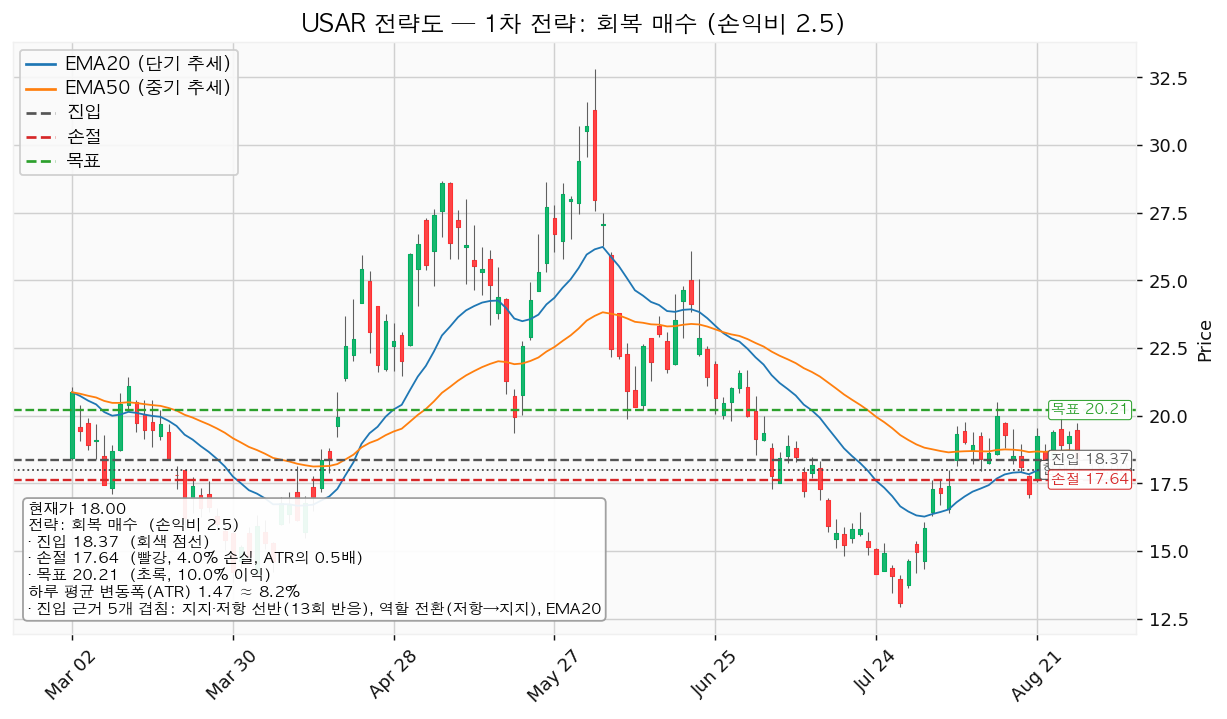
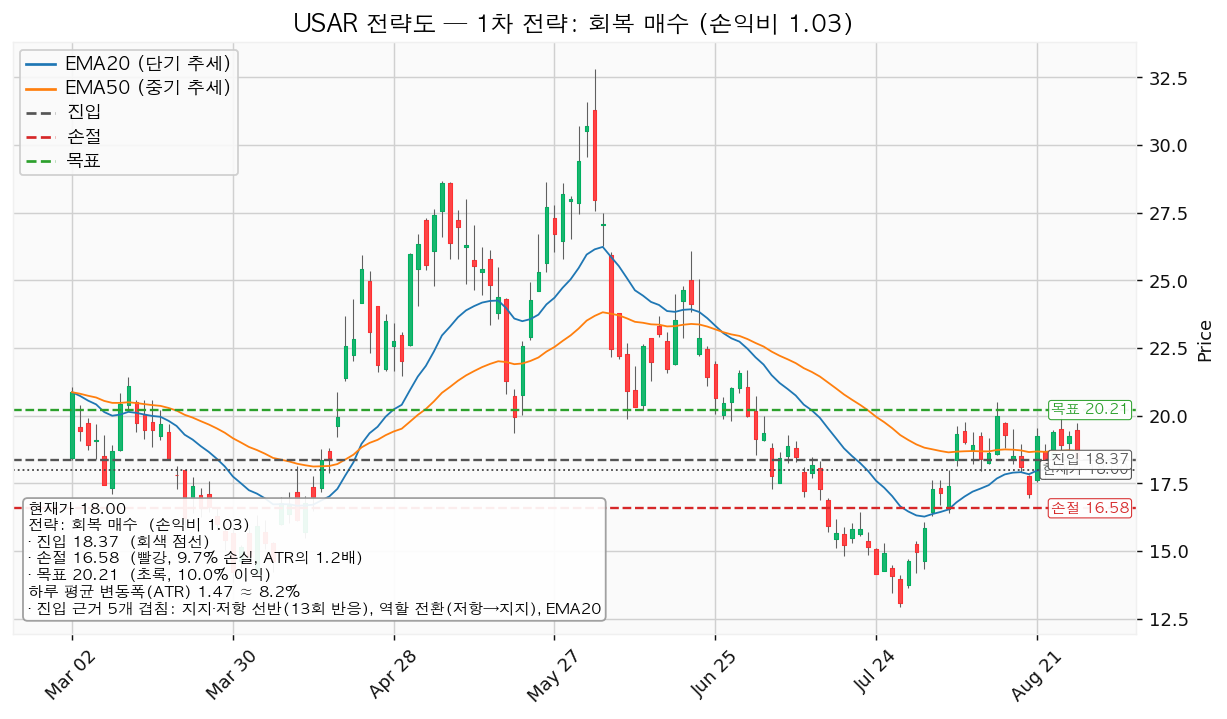
report: usa-rare-earth-inc-usar-20260831 — USA Rare Earth, Inc. (USAR) 종목 리포트 · 2026-08-31

diff --git a/r/usa-rare-earth-inc-usar-20260831/index.html b/r/usa-rare-earth-inc-usar-20260831/index.html
@@ -86,14 +86,14 @@ footer{color:var(--muted);font-size:12px;margin-top:44px;padding-top:14px;
 border-top:1px solid var(--line)}
 </style>
 </head><body><div class="wrap"><header class="site"><a class="back" href="../../index.html">← 전체 리포트</a></header>
-<p class="meta"><span class="badge">종목</span><strong>USA Rare Earth, Inc. (USAR)</strong> · 2026-08-31 14:34</p>
+<p class="meta"><span class="badge">종목</span><strong>USA Rare Earth, Inc. (USAR)</strong> · 2026-08-31 15:53</p>
 <h1 class="title">USA Rare Earth, Inc. (USAR) 종목 리포트 · 2026-08-31</h1>
-<div class="lede"><span class="lbl">한 줄 결론</span>USAR는 현재가 18.00달러에서 <mark>신규 매수를 보류</mark>하며, <strong>18.37달러를 일봉 종가로 회복한 뒤 되돌림에서 지켜지는 것까지 확인</strong>된 다음에만 소액으로 롱 전환을 검토합니다 — 진입한 경우 집행 손절은 17.64달러이나 이는 하루 평균 변동폭의 0.50배에 불과해 판단이 맞아도 체결될 수 있으므로, 진입하지 않은 상태에서 실제로 볼 선은 <strong>17.14달러 이탈</strong>과 <strong>2026-11-06 실적</strong>입니다.</div>
+<div class="lede"><span class="lbl">한 줄 결론</span>USAR는 <mark>패스</mark>입니다 — 유일하게 산출된 셋업의 손익비가 <strong>1:1.03</strong>으로, 손절을 구조 아래(16.58달러)에 제대로 두면 걸 만한 자리가 아닙니다. 18.37달러를 일봉 종가로 회복하고 되돌림까지 지켜지면 그때 다시 보되, 그 경우에도 손절 16.58달러 · 목표 20.21달러 · 손익비 1.03이라는 조건은 그대로이므로 <strong>손익비가 개선되지 않는 한 들어가지 않습니다.</strong> 진입하지 않은 상태에서 볼 선은 <strong>17.14달러 이탈</strong>과 <strong>2026-11-06 실적</strong>입니다.</div>
 <p class="note">USA Rare Earth(USAR)는 미국 내에서 희토류 자석과 그 원료를 만드는 회사로, 텍사스 라운드톱 광산 개발과 오클라호마 자석 공장을 함께 추진하고 있습니다.</p>
-<aside class="callout danger"><span class="ct">진입한 경우의 손절과, 진입하지 않은 경우의 관망 종료는 다릅니다</span><p><strong>집행 손절 17.64달러</strong>는 18.37달러에 진입했을 때만 존재합니다. 진입하지 않았다면 이 숫자는 아무 의미가 없습니다.</p><p>진입 전이라면 볼 것은 두 가지입니다 — <strong>17.14달러(겹침 5.5점, 이 종목 아래쪽 최상위 근거)를 종가로 잃으면</strong> 회복 시나리오를 접고, 그 전이라도 <strong>11월 6일 실적</strong>에서 논지가 깨지면 가격과 무관하게 관심 종목에서 뺍니다.</p></aside>
+<aside class="callout danger"><span class="ct">손절 16.58달러 — 그리고 이 셋업을 넘기는 이유</span><p>손절은 아래쪽에서 근거가 가장 두꺼운 구간(16.95~17.62달러, 겹침 5.5점) <strong>바로 아래</strong>인 16.58달러입니다. 손절 폭은 <strong><span class="neg">-9.75%</span></strong>, 하루 평균 변동폭의 1.22배로, 평범한 하루 등락에는 체결되지 않는 자리입니다.</p><p>그렇게 두면 손익비가 <strong>1:1.03</strong>입니다. 이익 폭과 손실 폭이 사실상 같다는 뜻이므로 <strong>이번에는 넘깁니다.</strong></p><p>진입하지 않은 상태에서 볼 선은 두 가지입니다 — <strong>17.14달러를 종가로 잃으면</strong> 회복 시나리오를 접고, 그 전이라도 <strong>11월 6일 실적</strong>에서 논지가 깨지면 가격과 무관하게 관심 종목에서 뺍니다.</p></aside>
 <hr>
 <h3>핵심 가격 — 5줄</h3>
-<div class="table-wrap"><table><thead><tr><th>구분</th><th>가격</th><th>언제 쓰는가</th><th>현재가 대비</th></tr></thead><tbody><tr><td><strong>회복선</strong> (진입 조건)</td><td><strong>18.37달러</strong></td><td>일봉 종가 회복 + 되돌림 지지까지 확인되면 진입</td><td><strong><span class="pos">+2.06%</span></strong></td></tr><tr><td><strong>집행 손절</strong></td><td><strong>17.64달러</strong></td><td><mark>진입한 경우에만 유효</mark> — 미진입 시 무의미</td><td><strong><span class="neg">-2.00%</span></strong></td></tr><tr><td><strong>관망 종료 기준</strong></td><td><strong>17.14달러 이탈</strong> 또는 <strong>2026-11-06 실적</strong></td><td>진입 전이라면 실제로 볼 선</td><td><strong><span class="neg">-4.78%</span></strong></td></tr><tr><td><strong>확인선</strong> (상승 확정)</td><td><strong>20.21달러</strong></td><td>일봉 종가 돌파 후 되돌림 지지</td><td><strong><span class="pos">+12.28%</span></strong></td></tr><tr><td>폐기선 (구조)</td><td>12.63달러</td><td>박스 해석 자체를 접는 자리 — <strong>하루 변동폭의 3.65배 거리라 실무상 무효화 기준으로 작동하지 않습니다</strong></td><td><strong><span class="neg">-29.83%</span></strong></td></tr></tbody></table></div>
+<div class="table-wrap"><table><thead><tr><th>구분</th><th>가격</th><th>언제 쓰는가</th><th>현재가 대비</th></tr></thead><tbody><tr><td><strong>회복선</strong> (진입 조건)</td><td><strong>18.37달러</strong></td><td>일봉 종가 회복 + 되돌림 지지까지 확인되면 진입</td><td><strong><span class="pos">+2.06%</span></strong></td></tr><tr><td><strong>집행 손절</strong></td><td><strong>16.58달러</strong></td><td><mark>진입한 경우에만 유효</mark> — 미진입 시 무의미</td><td><strong><span class="neg">-7.89%</span></strong></td></tr><tr><td><strong>관망 종료 기준</strong></td><td><strong>17.14달러 이탈</strong> 또는 <strong>2026-11-06 실적</strong></td><td>진입 전이라면 실제로 볼 선</td><td><strong><span class="neg">-4.78%</span></strong></td></tr><tr><td><strong>확인선</strong> (상승 확정)</td><td><strong>20.21달러</strong></td><td>일봉 종가 돌파 후 되돌림 지지</td><td><strong><span class="pos">+12.28%</span></strong></td></tr><tr><td>폐기선 (구조)</td><td>12.63달러</td><td>박스 해석 자체를 접는 자리 — <strong>하루 변동폭의 3.65배 거리라 실무상 무효화 기준으로 작동하지 않습니다</strong></td><td><strong><span class="neg">-29.83%</span></strong></td></tr></tbody></table></div>
 <p>폐기선이 표의 맨 아래로 내려간 이유는 거리 때문입니다. 12.63달러는 박스의 아래쪽 경계이고, 거기까지 <span class="neg">-29.8%</span> 빠지는 동안 계속 진입 기회를 기다리라는 것은 지침이 되지 못합니다. 진입하지 않은 사람이 볼 선은 세 번째 줄입니다.</p>
 <aside class="callout info"><span class="ct">이 리포트의 데이터에 한 가지 단서가 있습니다</span><p>2026-08-28(금) 일봉의 종가가 데이터 제공처에서 비어 있어, 같은 날 시간별 거래 자료의 마지막 체결가 18.00달러로 채워 분석에 반영했습니다. 확정 종가와 다를 수 있으며, 종가가 정정되면 위 가격들도 함께 달라집니다.</p></aside>
 <hr>
@@ -106,7 +106,7 @@ border-top:1px solid var(--line)}
 <h4>직전 리포트의 데이터 결함 — 정정합니다</h4>
 <p>직전 리포트는 현재가를 17.83달러로 적었습니다. 발행 시각이 한국시간 8월 24일 23시 37분, 미국 현지로는 <strong>장중 10시 37분</strong>이었고 8/24 봉의 실제 종가는 <strong>18.29달러</strong>(그날 범위 17.68~18.94)였습니다. 즉 아직 마감되지 않은 가격을 확정 종가처럼 사용했고, 당시의 EMA20 17.96달러·EMA50 18.64달러와 회복선 18.82달러가 모두 그 값 위에서 계산됐습니다. 지금은 확정 종가만 쓰도록 고쳐져 있습니다.</p>
 <h4>좌표의 이동</h4>
-<div class="table-wrap"><table><thead><tr><th>항목</th><th>08-24</th><th>08-31</th><th>왜 움직였나</th></tr></thead><tbody><tr><td>회복선·진입</td><td>18.82</td><td><strong>18.37</strong></td><td>8/25~8/28에 18.26~18.70 구간 반응이 쌓여 13회 반응 선반이 형성되고 EMA20·EMA50이 그 안으로 들어옴. 겹침 근거 2.1점 → <strong>3.7점</strong></td></tr><tr><td>집행 손절</td><td>18.10</td><td>17.64</td><td>진입선이 내려온 만큼 함께 이동</td></tr><tr><td>목표</td><td>20.38</td><td>20.21</td><td>같은 겹침 구간의 중심값 재계산</td></tr><tr><td>확인선</td><td>31.19</td><td><strong>20.21</strong></td><td><strong>선정 기준을 바꿨습니다</strong>(아래 설명)</td></tr><tr><td>폐기선</td><td>12.63</td><td>12.63</td><td>동일</td></tr><tr><td>현재가 추격</td><td>표시 없음</td><td><strong>비권장</strong></td><td>회복선 아래로 다시 내려옴</td></tr></tbody></table></div>
+<div class="table-wrap"><table><thead><tr><th>항목</th><th>08-24</th><th>08-31</th><th>왜 움직였나</th></tr></thead><tbody><tr><td>회복선·진입</td><td>18.82</td><td><strong>18.37</strong></td><td>8/25~8/28에 18.26~18.70 구간 반응이 쌓여 13회 반응 선반이 형성되고 EMA20·EMA50이 그 안으로 들어옴. 겹침 근거 2.1점 → <strong>3.7점</strong></td></tr><tr><td>집행 손절</td><td>18.10</td><td><strong>16.58</strong></td><td>손절 정책을 바꿨습니다 — 진입선 바로 밑(0.5 ATR)이 아니라 아래쪽 근거 구간(16.95~17.62) 바로 아래에 둡니다</td></tr><tr><td>목표</td><td>20.38</td><td>20.21</td><td>같은 겹침 구간의 중심값 재계산</td></tr><tr><td>손익비</td><td>2.16</td><td><strong>1.03</strong></td><td>손절을 구조 아래로 넓힌 결과입니다. 직전의 2.16은 손절이 좁아서 나온 값이었고, 그 손절이 8/28에 체결됐습니다</td></tr><tr><td>확인선</td><td>31.19</td><td><strong>20.21</strong></td><td><strong>선정 기준을 바꿨습니다</strong>(아래 설명)</td></tr><tr><td>폐기선</td><td>12.63</td><td>12.63</td><td>동일</td></tr><tr><td>현재가 추격</td><td>표시 없음</td><td><strong>비권장</strong></td><td>회복선 아래로 다시 내려옴</td></tr></tbody></table></div>
 <h4>확인선을 바꾼 이유</h4>
 <p>직전의 확인선 31.19달러는 박스의 위쪽 경계였습니다. 그런데 그 가격의 근거를 세어 보면 <strong>겹침 1.2점, 구성원은 &quot;박스 상단&quot; 하나</strong>입니다. 가격이 그 자리에서 반응한 이력도, 되돌림선도, 이동평균도 없는 자기참조입니다. 반면 20.21달러는 <strong>겹침 6.0점</strong>으로 이 종목 위쪽에서 가장 두꺼운 근거를 가진 가격입니다. &quot;상승이 확정됐다&quot;고 말할 자리는 알고리즘이 그린 상자를 벗어난 지점이 아니라 시장이 실제로 여러 번 막아섰던 지점이어야 하므로, 근거가 두꺼운 쪽으로 바꿨습니다. 박스 상단 31.19달러는 그 위의 맥락으로만 둡니다.</p>
 <h4>판단은 바뀌지 않았습니다</h4>
@@ -122,30 +122,25 @@ border-top:1px solid var(--line)}
 <div class="table-wrap"><table><thead><tr><th>시나리오</th><th>조건</th><th>구조 해석</th><th>행동</th></tr></thead><tbody><tr><td><strong>상승 전환</strong></td><td>18.37 종가 회복·지지 → 20.21 종가 돌파</td><td>속임수 하락 확인 → 강세 신호 → 되돌림 지지 → 상승 국면</td><td>18.37 확인 후 소액 진입, 20.21 돌파 시 <strong>새 셋업으로 다시 진입</strong>(아래 4절)</td></tr><tr><td><strong>횡보 지속</strong></td><td>12.63을 지키며 20.21 아래 유지</td><td>구조는 유지되는 국면입니다. 매물 소화에 시간이 필요할 뿐 부정적 신호가 아닙니다</td><td>신규 진입 보류. 추적 항목 — ① 지지 테스트 매도 거래량 감소(현재: 증가) ② 저점 절상(현재: 절하) ③ 상승 시 거래량·캔들 폭 확대(현재: 거래량비 0.99)</td></tr><tr><td><strong>시나리오 폐기</strong></td><td>12.63 이탈 후 3거래일 내 회복 실패 + 반등에서 저항 확인</td><td>매집이 아니라 재분산 — 추가 저점 갱신 가능성을 엽니다</td><td>포지션 정리 후 새 박스가 만들어질 때까지 관망</td></tr></tbody></table></div>
 <p>세 갈래 중 지금 가장 두꺼운 것은 <strong>횡보 지속</strong>입니다. 다만 직전 리포트와 달리 박스 내부 세 관측이 모두 분산 쪽을 가리키고 있어, 횡보가 아래로 풀릴 가능성이 위로 풀릴 가능성보다 높다고 봅니다.</p>
 <hr>
-<h3>조건부 셋업 — 그리고 이 셋업의 정합성 문제</h3>
+<h3>조건부 셋업 — 그리고 왜 넘기는가</h3>
 <p>엔진이 산출한 셋업은 1개입니다. 하락·중립 국면이라 눌림 매수나 돌파 매수는 나오지 않았습니다.</p>
-<div class="table-wrap"><table><thead><tr><th>항목</th><th>회복 매수 — 대표 셋업</th></tr></thead><tbody><tr><td><strong>엣지의 종류</strong></td><td><strong>모멘텀</strong> (회복 확인형)</td></tr><tr><td><strong>전제</strong></td><td>저항을 종가로 되찾으면 그 방향이 이어진다</td></tr><tr><td><strong>구조 증명도</strong></td><td><strong>회복 확인형</strong> (가중치 1.0) — 저항을 종가로 회복한 뒤에만 들어가므로 진입가는 불리하지만 구조가 먼저 증명됩니다</td></tr><tr><td><strong>이 유형의 성격</strong></td><td>자주 틀리고 소수가 크게 맞는 구조. 승률을 기대하는 셋업이 아닙니다 *(이 유형의 일반적 성격이며, 이 엔진에서 측정한 값이 아닙니다 — 백테스트 자료가 없습니다)*</td></tr><tr><td>진입</td><td><strong>18.37달러</strong> (<strong><span class="pos">+2.06%</span></strong>, 하루 변동폭의 0.25배 거리)</td></tr><tr><td>진입 근거 겹침</td><td>3.7점 / 5개 — 지지·저항 선반(13회 반응), 역할 전환(저항→지지), EMA20, EMA50, 최근 반응(12봉 전). 구간 18.26~18.70</td></tr><tr><td>집행 손절</td><td><strong>17.64달러</strong> — 진입선에서 하루 변동폭의 <strong>0.50배</strong> 아래</td></tr><tr><td>목표</td><td><strong>20.21달러</strong> (겹침 6.0점 / 7개 — 스윙저점, 라운드피겨, 선반 13회 반응, 주봉 62% 되돌림, 스윙고점, 일봉 38% 되돌림, 최근 반응)</td></tr><tr><td><strong>손익비</strong></td><td><strong>1 : 2.50 (손절 0.50 ATR 기준)</strong></td></tr><tr><td><strong>구조적 손절 기준 손익비</strong></td><td><strong>1 : 0.83</strong> (손절을 1.5 ATR = 16.16달러로 넓혔을 때)</td></tr><tr><td>분할 청산</td><td>T1 19.18에서 50%(손익비 1.10) → 잔여 손절 18.37(본전) → T2 20.21(2.50). 전 구간 1.80, <strong>T1 후 하한 0.55</strong></td></tr></tbody></table></div>
-<aside class="callout key"><span class="ct">손익비 2.50은 구조에서 나온 숫자가 아닙니다</span><p>같은 진입·같은 목표에 손절만 <strong>1.5 ATR</strong>(변동성 기반 시스템이 통상 쓰는 폭)로 넓히면 손익비는 <strong>1:0.83</strong>으로 떨어집니다. 즉 이 셋업의 매력은 목표가 멀어서가 아니라 <strong>손절을 하루 변동폭 안에 넣어서</strong> 생긴 것입니다. 손절 폭을 함께 보지 않고 2.50만 인용하면, 손절이 구조 바깥에 놓인 다른 셋업과 같은 잣대로 비교하게 됩니다.</p></aside>
-<p><strong>대표 셋업 선정 이유</strong>: 이번에는 산출된 셋업이 하나뿐이라 손익비 순위와 대표 셋업이 자동으로 일치합니다. 선정 근거는 손익비 2.50 × 구조 증명도(회복 확인형) × 근거 겹침 3.7점입니다. 다만 아래에서 보듯 그 손익비 2.50이라는 숫자 자체에 단서가 붙습니다.</p>
-<h4>정합성 경고 — 두 학파의 단점이 합쳐져 있습니다</h4>
-<p>이 셋업은 <strong>모멘텀 전제</strong>(저항을 되찾으면 이어진다)로 진입하면서, <strong>고정 목표 20.21달러로 위를 막고</strong> 있습니다. 두 학파의 규칙은 정반대입니다.</p>
-<ul><li><strong>평균회귀</strong>: 승률이 높고 이익 폭이 작습니다. 저항에서 전량 청산이 맞고, 손절은 구조 아래로 넓게 둡니다.</li><li><strong>모멘텀</strong>: 자주 틀리고 소수가 크게 맞습니다. 손절이 좁아도 되지만(빨리 틀리려고), <strong>고정 목표로 위를 막으면 안 됩니다.</strong></li></ul>
-<p>지금 조합은 손절은 모멘텀식으로 좁고 목표는 평균회귀식으로 막혀 있어, <strong>승률은 낮은데 상방은 잘린</strong> 상태입니다. 정합적인 형태는 둘 중 하나입니다.</p>
-<ul><li><strong>ⓐ 레인지 판</strong>: 손절을 구조 아래(16.16달러대)로 넓히고 목표는 20.21 유지. 손익비는 <strong>1:0.83</strong>으로 떨어지며, 그 숫자를 보고도 하겠느냐가 판단입니다.</li><li><strong>ⓑ 모멘텀 판</strong>: 손절 17.64 유지, <strong>고정 목표를 버리고</strong> 20.21 돌파 후 트레일링. 다만 진입 18.37에서 목표 20.21까지가 <strong>1.25 ATR</strong>뿐이라 트레일링을 걸 폭이 없습니다. 20.21 돌파 후 1 ATR 아래로 트레일을 두면 18.74달러로 진입가 바로 위이고, 확보되는 이익이 0.25 ATR입니다.</li></ul>
-<p><strong>두 판본 중 고르시라는 뜻이 아닙니다.</strong> 엔진이 낸 이 셋업이 어느 쪽으로도 정합적이지 않다는 것이 이 표의 결론이며, 그래서 비중을 작게 가져가거나 아예 넘기는 것이 합리적입니다. *(참고: &quot;진입~목표가 ATR 2배 미만이면 트레일링을 걸지 않는다&quot;는 기준은 관행적 판단이며 정설로 확립된 상수는 아닙니다.)*</p>
+<div class="table-wrap"><table><thead><tr><th>항목</th><th>회복 매수 — 대표 셋업</th></tr></thead><tbody><tr><td><strong>엣지의 종류</strong></td><td><strong>모멘텀</strong> (회복 확인형)</td></tr><tr><td><strong>전제</strong></td><td>저항을 종가로 되찾으면 그 방향이 이어진다</td></tr><tr><td><strong>구조 증명도</strong></td><td><strong>회복 확인형</strong> (가중치 1.0) — 저항을 종가로 회복한 뒤에만 들어가므로 진입가는 불리하지만 구조가 먼저 증명됩니다</td></tr><tr><td><strong>이 유형의 성격</strong></td><td>자주 틀리고 소수가 크게 맞는 구조. 승률을 기대하는 셋업이 아닙니다 *(이 유형의 일반적 성격이며, 이 엔진에서 측정한 값이 아닙니다 — 백테스트 자료가 없습니다)*</td></tr><tr><td>진입</td><td><strong>18.37달러</strong> (<strong><span class="pos">+2.06%</span></strong>, 하루 변동폭의 0.25배 거리)</td></tr><tr><td>진입 근거 겹침</td><td>3.7점 / 5개 — 지지·저항 선반(13회 반응), 역할 전환(저항→지지), EMA20, EMA50, 최근 반응(12봉 전). 구간 18.26~18.70</td></tr><tr><td>집행 손절</td><td><strong>16.58달러</strong> — 근거 겹침 구간(16.95~17.62, 5.5점) <strong>바로 아래</strong>. 손절 폭 <strong><span class="neg">-9.75%</span></strong>, 하루 변동폭의 1.22배</td></tr><tr><td>목표</td><td><strong>20.21달러</strong> (겹침 6.0점 / 7개 — 스윙저점, 라운드피겨, 선반 13회 반응, 주봉 62% 되돌림, 스윙고점, 일봉 38% 되돌림, 최근 반응)</td></tr><tr><td><strong>손익비</strong></td><td><strong>1 : 1.03</strong> — 이익 폭과 손실 폭이 사실상 같습니다</td></tr><tr><td><strong>비중</strong></td><td>1회 손실 한도 계좌의 1% ÷ 손절 폭 9.75% = <strong>계좌의 10.3%</strong>. 한 종목 상한 13% 이내이므로 그대로 적용 가능합니다</td></tr><tr><td><strong>판정</strong></td><td><mark>패스</mark> — 손익비 1.03은 걸 만한 자리가 아닙니다</td></tr><tr><td>분할 청산</td><td>T1 19.18에서 50%(손익비 0.45) → 잔여 손절 18.37(본전) → T2 20.21(1.03). 전 구간 0.74, <strong>T1 후 하한 0.23</strong></td></tr><tr><td>청산 규칙</td><td>목표에서 <strong>전량 청산</strong>. 트레일링은 걸지 않습니다</td></tr></tbody></table></div>
+<aside class="callout key"><span class="ct">손익비 1.03이 이 종목의 정직한 숫자입니다</span><p>손절을 진입선 바로 밑(하루 변동폭의 0.5배)에 붙이면 손익비가 2.50까지 올라갑니다. 그러나 그것은 목표가 멀어서 생긴 숫자가 아니라 <strong>손절을 하루 등락 안에 넣어서</strong> 생긴 숫자이며, 8월 28일에 실제로 그 자리에서 손절당했습니다. 손절을 구조 아래에 제대로 두면 남는 숫자가 <strong>1.03</strong>입니다.</p><p>이익 폭과 손실 폭이 같은 자리는 걸지 않습니다. <strong>이번 판정은 패스입니다.</strong></p></aside>
+<p><strong>대표 셋업 선정 이유</strong>: 산출된 셋업이 하나뿐이라 손익비 순위와 대표 셋업이 일치합니다. 선정 근거는 손익비 1.03 × 구조 증명도(회복 확인형) × 근거 겹침 3.7점이며, 그 손익비가 곧 패스 판정의 근거입니다.</p>
+<p><strong>집행 규칙</strong>: 진입 근거는 모멘텀(저항을 되찾으면 이어진다)이지만 집행은 레인지 규칙을 따릅니다 — 손절은 구조 아래, 목표 20.21달러에서 전량 청산이고 트레일링은 걸지 않습니다. 20.21달러를 넘어서는 구간은 이 포지션을 끌고 가서 먹는 것이 아니라 <strong>새 셋업으로 다시 잡습니다</strong>(아래 참조).</p>
 <figure><a href="USAR_20260831.png" target="_blank" rel="noopener"><img src="USAR_20260831.png" alt="USAR 전략도 — 진입·손절·목표" loading="lazy"></a><figcaption>USAR 전략도 — 진입·손절·목표</figcaption></figure>
 <h4>확인선과 목표가 같은 가격인 것은 모순이 아니라 분기입니다</h4>
 <p>20.21달러는 목표이자 확인선입니다. 두 지시가 충돌하는 것처럼 보이지만, <strong>도달 자체는 아무 결정도 아니고 그 자리에서 나오는 반응이 결정합니다.</strong></p>
-<ul><li>20.21에서 막히고 되밀리면 → <strong>잔여 청산.</strong> 그게 목표였습니다.</li><li>20.21을 <strong>일봉 종가로 넘고 되돌림에서 지켜지면</strong> → <strong>상승 확정.</strong> 이때는 기존 포지션을 끌고 가는 것이 아니라 <strong>새 셋업으로 다시 잡습니다.</strong> 다음 근거 구간은 24.99달러(주봉 50% 되돌림 + 일봉 62% 되돌림)이고, 20.21 아래로 손절을 두면 구간이 3.25 ATR이라 비로소 트레일링이 의미를 갖는 폭이 됩니다.</li></ul>
+<ul><li>20.21에서 막히고 되밀리면 → <strong>잔여 청산.</strong> 그게 목표였습니다.</li><li>20.21을 <strong>일봉 종가로 넘고 되돌림에서 지켜지면</strong> → <strong>상승 확정.</strong> 이때는 기존 포지션을 끌고 가는 것이 아니라 <strong>새 셋업으로 다시 잡습니다.</strong> 다음 근거 구간은 24.99달러(주봉 50% 되돌림 + 일봉 62% 되돌림)이고, 손절을 20.21달러 아래에 두면 손익비가 이번 셋업보다 크게 좋아집니다. 그 시점에 다시 산출하겠습니다.</li></ul>
 <h4>무효화 3단계 — 가격을 한 번 내준 것은 폐기가 아닙니다</h4>
 <p>① <strong>관찰</strong>: 일봉 종가가 18.37달러 아래로 마감 → 구조 이탈이 시작된 것이지만 되돌아 올라오면 속임수 하락일 수 있어 아직 무효가 아닙니다. 신규 진입만 중단하고 집행 손절은 그대로 둡니다. ② <strong>경고</strong>: 이탈 후 3거래일 안에 18.37달러를 종가로 회복하지 못함 → 잔여 비중을 줄이고 반등에서의 반응을 확인합니다. ③ <strong>무효</strong>: 반등이 18.37달러에서 막히고 그 아래로 되밀림 → 셋업 폐기.</p>
-<p>집행 손절 17.64달러는 위 판정이 몇 단계에 있든 무관하게 별도로 작동하며, 장중 일시 이탈은 어느 단계에도 해당하지 않습니다.</p>
+<p>집행 손절 16.58달러는 위 판정이 몇 단계에 있든 무관하게 별도로 작동하며, 장중 일시 이탈은 어느 단계에도 해당하지 않습니다.</p>
 <hr>
 <h3>현재가 추격 비권장 — 대기 좌표</h3>
 <p>18.37달러 회복이 확인되기 전이므로 현재가 18.00달러에서 따라 사는 것은 권장하지 않습니다.</p>
 <div class="table-wrap"><table><thead><tr><th>대기 항목</th><th>값</th></tr></thead><tbody><tr><td>되돌림 진입 후보</td><td><strong>17.14달러</strong> — 겹침 <strong>5.5점</strong> / 6개(스윙저점, 라운드피겨 17, 지지·저항 선반 15회 반응, 역할 전환, 일봉 24% 되돌림, 최근 반응 6봉 전). 구간 16.95~17.62</td></tr><tr><td>EMA20 투영 (5봉 후)</td><td>18.28 → 18.17달러</td></tr><tr><td>EMA50 투영 (5봉 후)</td><td>18.70 → 18.57달러</td></tr></tbody></table></div>
 <p>이동평균 투영치는 현재가 18.00달러가 5거래일 동안 그대로 유지될 경우의 값이며 주가 예측이 아닙니다.</p>
-<aside class="callout info"><span class="ct">손절과 재진입 후보가 사실상 같은 자리입니다</span><p>집행 손절 17.64달러와 재진입 후보 17.14달러의 간격은 0.50달러, <strong>하루 평균 변동폭의 0.34배</strong>입니다. 손절당한 직후 다시 사라는 좌표가 하루 등락의 3분의 1 아래에 있다는 뜻이며, 실무적으로는 구분되지 않는 가격대입니다. 이 종목의 변동성으로는 좌표를 이만큼 잘게 나눌 수 없습니다.</p></aside>
+<aside class="callout info"><span class="ct">손절과 재진입 후보가 사실상 같은 자리입니다</span><p>이 17.14달러 구간은 손절 16.58달러를 놓는 근거이기도 합니다. 손절은 이 구간 <strong>아래</strong>에 있고 재진입 후보는 구간 <strong>안</strong>에 있으므로 역할이 겹치지 않습니다. 다만 여기까지 밀린 뒤 다시 오르더라도 목표 20.21달러까지의 폭은 그대로이므로, 손익비가 개선되는지 그 시점에 다시 계산해야 합니다.</p></aside>
 <hr>
 <h3>되돌림 — 어디까지 반납했는가</h3>
 <div class="table-wrap"><table><thead><tr><th>기준</th><th>구간</th><th>방향</th><th>주요 되돌림선</th></tr></thead><tbody><tr><td>일봉</td><td>32.80달러(2026-06-03) → 12.93달러(2026-07-29)</td><td>하락</td><td>24% 17.62 / 38% 20.52 / 50% 22.87 / 62% 25.21</td></tr><tr><td>주봉</td><td>5.56달러(2025-03-24) → 43.98달러(2025-10-13)</td><td>상승</td><td>24% 34.91 / 38% 29.30 / 50% 24.77 / <strong>62% 20.24</strong></td></tr></tbody></table></div>
@@ -190,12 +185,11 @@ border-top:1px solid var(--line)}
 <p>1. 당해 연도 주당순이익이 컨센서스 최저 <strong>-0.78달러</strong>보다 나쁨 2. 영업활동 현금흐름 유출이 <strong>-1억 606만 달러</strong>보다 확대 3. 시가총액의 10%를 넘는 희석성 자금 조달 발표 4. 다음 연도 주당순이익 컨센서스가 <strong>-0.043달러</strong>에서 추가 하향</p>
 <p>날짜가 있는 확인 이벤트는 11월 6일 실적 하나입니다.</p>
 <hr>
-<h3>도구 적합성 — 부적합</h3>
-<p>ATR 1.4724달러가 주가의 <strong>8.18%</strong>인데 진입에서 손절까지는 0.73달러, <strong>0.50 ATR</strong>입니다. 논지가 맞아도 평범한 하루 등락만으로 체결될 수 있으며, 이는 가정이 아니라 <strong>8월 28일에 실제로 일어난 일</strong>입니다(직전 셋업이 목표에 0.015달러 못 미친 뒤 손절 체결).</p>
-<p>정합적인 대안은 두 가지입니다.</p>
-<ul><li><strong>비중 절반 이하 + 손절 확대</strong>: 손절을 17.14달러(겹침 5.5점)로 내리면 손절 폭 0.84 ATR에 손익비 <strong>1:1.50</strong>, 그 구간 아래 16.95달러까지 내리면 0.96 ATR에 <strong>1:1.30</strong>입니다. 어느 쪽이든 2.50보다 낮으며, 비중을 줄여 리스크 총액을 맞춥니다.</li><li><strong>셋업을 넘기고 17.14달러를 기다림</strong>: 겹침 근거가 더 두꺼운 자리에서 시작하면 손절을 구조 아래로 두면서도 목표까지의 폭이 넓어집니다.</li></ul>
-<p>컨센서스는 12개월 시계이고 이 셋업은 수 주 시계입니다. &quot;몇 주 단위로는 진입 근거가 약하다&quot;와 &quot;12개월 기준으로 목표가 높다&quot;는 충돌하지 않으므로, 같은 층위끼리만 비교하십시오.</p>
-<hr>
+<h3>비중과 최종 판정</h3>
+<div class="table-wrap"><table><thead><tr><th>항목</th><th>값</th></tr></thead><tbody><tr><td>1회 매매 손실 한도</td><td>계좌의 <strong>1%</strong></td></tr><tr><td>손절 폭</td><td><strong><span class="neg">-9.75%</span></strong> (진입 18.37 → 손절 16.58)</td></tr><tr><td>계산된 포지션 크기</td><td>1% ÷ 9.75% = <strong>계좌의 10.3%</strong></td></tr><tr><td>한 종목 상한</td><td>계좌의 <strong>13%</strong> — 이번은 10.3%로 상한 이내입니다</td></tr></tbody></table></div>
+<p>비중 계산은 진입했을 경우를 가정한 값이며, <strong>이번 판정은 패스이므로 실제로 실을 금액은 0입니다.</strong> 상한 13%를 적어 두는 이유는, 손절 폭이 좁은 종목에서는 같은 1% 손실 한도로도 포지션이 계좌의 20~30%까지 커질 수 있기 때문입니다. 한 종목에 그만큼 싣지 않습니다.</p>
+<p><strong>왜 패스인가</strong>: 손익비 1.03은 열 번 해서 다섯 번 맞아도 남는 것이 없는 수준입니다. 손절 폭이 넓어서가 아니라 <strong>목표 20.21달러가 진입 18.37달러에서 가깝기 때문</strong>이며, 그 위 24.99달러까지는 근거가 얇아 목표로 삼을 수 없습니다. 박스 안쪽이 분산 우위이고 이익 추정치도 하향 중이라, 기다릴 이유는 있어도 서둘 이유는 없습니다.</p>
+<p>기본 시계는 수 주입니다. 아래 컨센서스는 12개월 기준이므로 이 판정과 층위가 다르며, 답은 위의 진입·손절·목표로 냅니다.</p>
 <h3>데이터 관련 안내</h3>
 <ul><li>2026-08-28 일봉 종가가 제공처에서 비어 있어 같은 날 시간별 자료의 마지막 체결가 <strong>18.00달러</strong>로 채워 반영했습니다. 확정 종가와 다를 수 있으며, 이 리포트의 현재가·이동평균·ATR·모든 거리가 이 값 위에서 계산됐습니다. 다만 <strong>직전 셋업의 손절 체결 판정은 8/28 저가 17.81달러에 근거하므로 이 채움값의 영향을 받지 않습니다.</strong></li><li>일봉 753봉을 조회했고 일봉·주봉 되돌림, 박스 판정, 겹침 계산은 모두 정상 산출됐습니다.</li><li>적자 기업이므로 PER 기반 검증은 불가능합니다. 승률·기대값에 대한 수치는 백테스트 자료가 없어 제시하지 않았습니다.</li></ul>
 <hr>

diff --git a/index.html b/index.html
@@ -85,8 +85,8 @@ padding:15px 17px;margin-bottom:11px;text-decoration:none;color:inherit}
 footer{color:var(--muted);font-size:12px;margin-top:44px;padding-top:14px;
 border-top:1px solid var(--line)}
 </style>
-</head><body><div class="wrap"><header class="site"><h1>투자 리포트</h1><span class="sub">12건 · 최근 갱신 2026-08-31 14:34</span></header><div class="filters"><input id="q" type="search" placeholder="종목·키워드 검색" autocomplete="off"><button class="chip" data-kind="all" aria-pressed="true">전체</button><button class="chip" data-kind="market" aria-pressed="false">시황</button><button class="chip" data-kind="report" aria-pressed="false">리포트</button><button class="chip" data-kind="ticker" aria-pressed="false">종목</button></div><div id="list"></div><footer>본 자료는 정보 제공 목적이며 투자 권유가 아닙니다. 모든 투자 판단과 그 결과의 책임은 투자자 본인에게 있습니다.</footer><script>
-const DATA=[{"slug": "usa-rare-earth-inc-usar-20260831", "title": "USA Rare Earth, Inc. (USAR) 종목 리포트 · 2026-08-31", "summary": "USAR는 현재가 18.00달러에서 신규 매수를 보류하며, 18.37달러를 일봉 종가로 회복한 뒤 되돌림에서 지켜지는 것까지 확인된 다음에만 소액으로 롱 전환을 검토합니다 — 진입한 경우 집행 손절은 17.64달러이나 이는 하루 평균 변동폭의 0.50배에 불과해 판단이 맞아도 체결될 수 있으므로, 진입하지 않은 상태에서 실제로 볼 선은 17.14달러 이탈과 2026-11-06 실적입니다.", "kind": "ticker", "symbol": "USAR", "name": "USA Rare Earth, Inc.", "published_at": "2026-08-31T14:34:35+09:00", "url": "r/usa-rare-earth-inc-usar-20260831/"}, {"slug": "coherent-corp-cohr-20260831", "title": "Coherent Corp. (COHR) 종목 리포트 · 2026-08-31", "summary": "신규 매수는 보류하고, 287.16달러를 일봉 종가로 회복한 뒤에만 소액으로 롱 전환을 검토하십시오 — 다만 이 셋업의 집행 손절 273.31달러는 하루 평균 변동폭의 0.5배에 불과해 논지가 맞아도 체결될 수 있으므로, 실질적인 판단 무효화 기준은 가격이 아니라 11월 5일 실적입니다(내년 주당순이익 컨센서스가 90일 전 수준인 12.24달러 아래로 되밀리면 판단을 접습니다).", "kind": "ticker", "symbol": "COHR", "name": "Coherent Corp.", "published_at": "2026-08-31T09:31:45+09:00", "url": "r/coherent-corp-cohr-20260831/"}, {"slug": "ishares-phlx-sox-semiconductor-soxx-20260831", "title": "iShares PHLX SOX Semiconductor (SOXX) 종목 리포트 · 2026-08-31", "summary": "SOXX는 신규 롱 관망입니다 — 522.80을 일봉 종가로 회복하기 전에는 진입하지 않고, 회복 매수로 들어간 경우 집행 손절은 512.54이며, 박스 하단 457.92를 종가로 내준 뒤 3거래일 안에 회복하지 못하고 반등이 그 가격에서 막히면 이 시나리오 자체를 폐기합니다.", "kind": "ticker", "symbol": "SOXX", "name": "iShares PHLX SOX Semiconductor", "published_at": "2026-08-31T08:41:49+09:00", "url": "r/ishares-phlx-sox-semiconductor-soxx-20260831/"}, {"slug": "netflix-inc-nflx-20260831", "title": "Netflix, Inc. (NFLX) 종목 리포트 · 2026-08-31", "summary": "현재가 81.73달러에서 신규 추격은 하지 않고, 84.72달러를 일봉 종가로 회복하는 것을 확인한 뒤 돌파 매수(진입 84.72 / 집행 손절 83.58 / 1차 목표 86.51 / 2차 목표 90.89, 1차까지 손익비 1.57, 전 구간 3.50)로 들어가며, 일봉 종가가 84.72 아래로 밀린 뒤 3거래일 안에 되찾지 못하고 반등이 그 가격에서 막히면 이 셋업을 폐기하고, 박스 하단 70.32달러가 같은 방식으로 무너지면 상승 시나리오 전체를 폐기합니다.", "kind": "ticker", "symbol": "NFLX", "name": "Netflix, Inc.", "published_at": "2026-08-31T08:41:34+09:00", "url": "r/netflix-inc-nflx-20260831/"}, {"slug": "market-20260830-20260830", "title": "시황 리포트 · 2026-08-30", "summary": "지수는 아직 20일·50일 이동평균 위에 있고 투자심리는 탐욕 구간(S&P 500 71.3 · 나스닥 73.0)이지만, 주도권이 에너지·헬스케어·소재로 옮겨가고 경기소비재·산업재·유틸리티는 20일·50일선을 모두 내준 방어적 순환이 진행 중이므로 신규 위험자산 확대는 보류하며, S&P 500 일봉 종가가 20일 이동평균 7,667.63 아래로 내려간 뒤 이어지는 반등에서 이 선을 종가로 되찾지 못하면 강세 판단을 폐기합니다.", "kind": "market", "symbol": null, "name": null, "published_at": "2026-08-30T09:29:59+09:00", "url": "r/market-20260830-20260830/"}, {"slug": "kospi-rotation-20260826", "title": "시황 리포트 · 2026-08-26", "summary": "지금 KOSPI는 업종이 차례로 돌아가는 순환매가 아니라 지수가 오르면 반도체, 빠지면 화장품·은행·필수소비재로 되돌아오는 두 자리 왕복 국면이며, 이 판단은 지수가 7,135를 일봉 종가로 회복하면 폐기(저베타 우위가 깨지고 실제 확산 국면), 6,398을 종가로 내준 뒤 되돌리지 못하고 그 가격이 저항으로 바뀌면 왕복이 아니라 전면 하락으로 전환된 것으로 봅니다.", "kind": "market", "symbol": null, "name": null, "published_at": "2026-08-26T00:09:52+09:00", "url": "r/kospi-rotation-20260826/"}, {"slug": "usa-rare-earth-inc-usar-20260824", "title": "USA Rare Earth, Inc. (USAR) 종목 리포트 · 2026-08-24", "summary": "USAR는 현재가 17.83달러에서 신규 매수를 보류하고 관망하며, 18.82달러를 일봉 종가로 회복한 뒤 되돌림에서 지켜지는 것을 확인한 다음에만 롱 전환을 검토합니다 — 진입 시 집행 손절은 18.10달러(진입 기준선에서 하루 평균 변동폭의 0.5배 아래)이고, 구조 자체의 폐기선은 12.63달러 이탈 후 3거래일 내 종가 회복 실패 + 반등에서 저항 확인 시입니다.", "kind": "ticker", "symbol": "USAR", "name": "USA Rare Earth, Inc.", "published_at": "2026-08-24T23:37:03+09:00", "url": "r/usa-rare-earth-inc-usar-20260824/"}, {"slug": "doosan-enerbility-034020-ks-20260824", "title": "Doosan Enerbility (034020.KS) 종목 리포트 · 2026-08-24", "summary": "두산에너빌리티는 64,200원~129,100원 박스 안에서 매집 우위로 버티는 국면이므로 신규 롱은 75,363원 일봉 종가 회복 확인 뒤에만 검토하시고, 72,450원을 일봉 종가로 내준 뒤 3거래일 내 회복하지 못하고 반등이 그 가격에서 막히면 매수 논리를 폐기하십시오(집행 손절은 회복 매수 71,309원 / 지지 확인 매수 69,254원으로 별도 작동합니다).", "kind": "ticker", "symbol": "034020.KS", "name": "Doosan Enerbility", "published_at": "2026-08-24T23:36:51+09:00", "url": "r/doosan-enerbility-034020-ks-20260824/"}, {"slug": "ls-electric-010120-ks-20260824", "title": "LS ELECTRIC (010120.KS) 종목 리포트 · 2026-08-24", "summary": "평단 233,000원 대비 -20.47%(현재가 185,300원)이나 지금 자리는 주가가 갇힌 박스의 아래쪽(167,367원)에서 1.18 ATR밖에 안 남은 지점이라 즉시 전량 손절은 권하지 않으며, 일봉 종가가 165,400원(7/30 반등 신호가 나온 저점) 또는 167,367원(박스 아래쪽)을 깨면 그때 전량 손절하고, 그 전에는 194,700 / 201,551 / 213,844원 반등 구간에서 나눠 줄이는 것이 실행 계획입니다.", "kind": "ticker", "symbol": "010120.KS", "name": "LS ELECTRIC", "published_at": "2026-08-24T09:39:10+09:00", "url": "r/ls-electric-010120-ks-20260824/"}, {"slug": "invesco-qqq-trust-series-1-qqq-20260824", "title": "Invesco QQQ Trust, Series 1 (QQQ) 종목 리포트 · 2026-08-24", "summary": "QQQ는 682.94~729.84 박스에 갇힌 중립 구간에 있어 현재가 713.44에서의 신규 매수는 근거가 없으며, 701.70까지 눌릴 때 사거나(손익비 1:3.5) 729.46을 일봉 종가로 넘는 것을 확인한 뒤 따라 붙는 것이 유일한 매수 전략입니다.", "kind": "ticker", "symbol": "QQQ", "name": "Invesco QQQ Trust, Series 1", "published_at": "2026-08-24T08:33:01+09:00", "url": "r/invesco-qqq-trust-series-1-qqq-20260824/"}, {"slug": "sk-hynix-000660-ks-20260822", "title": "SK hynix (000660.KS) 종목 리포트 · 2026-08-22", "summary": "SK하이닉스는 하락·중립 국면이며 유일하게 산출된 셋업(reclaim_long)의 손익비가 0.93으로 1 미만이라 신규 진입 보류·관망이 타당하고, 1,820,709원 종가 회복을 확인한 뒤에야 롱 전환을 검토합니다.", "kind": "ticker", "symbol": "000660.KS", "name": "SK hynix", "published_at": "2026-08-22T14:06:51+09:00", "url": "r/sk-hynix-000660-ks-20260822/"}, {"slug": "setup-check", "title": "발행 파이프라인 점검", "summary": "발행 경로(PDF 생성 → 웹 페이지 → GitHub push → Telegram)가 정상 동작하는지 확인하기 위한 점검용 문서이며, 투자 판단 내용은 포함하지 않습니다.", "kind": "report", "symbol": null, "published_at": "2026-08-22T13:51:48+09:00", "url": "r/setup-check/"}];
+</head><body><div class="wrap"><header class="site"><h1>투자 리포트</h1><span class="sub">12건 · 최근 갱신 2026-08-31 15:53</span></header><div class="filters"><input id="q" type="search" placeholder="종목·키워드 검색" autocomplete="off"><button class="chip" data-kind="all" aria-pressed="true">전체</button><button class="chip" data-kind="market" aria-pressed="false">시황</button><button class="chip" data-kind="report" aria-pressed="false">리포트</button><button class="chip" data-kind="ticker" aria-pressed="false">종목</button></div><div id="list"></div><footer>본 자료는 정보 제공 목적이며 투자 권유가 아닙니다. 모든 투자 판단과 그 결과의 책임은 투자자 본인에게 있습니다.</footer><script>
+const DATA=[{"slug": "usa-rare-earth-inc-usar-20260831", "title": "USA Rare Earth, Inc. (USAR) 종목 리포트 · 2026-08-31", "summary": "USAR는 패스입니다 — 유일하게 산출된 셋업의 손익비가 1:1.03으로, 손절을 구조 아래(16.58달러)에 제대로 두면 걸 만한 자리가 아닙니다. 18.37달러를 일봉 종가로 회복하고 되돌림까지 지켜지면 그때 다시 보되, 그 경우에도 손절 16.58달러 · 목표 20.21달러 · 손익비 1.03이라는 조건은 그대로이므로 손익비가 개선되지 않는 한 들어가지 않습니다. 진입하지 않은 상태에서 볼 선은 17.14달러 이탈과 2026-11-06 실적입니다.", "kind": "ticker", "symbol": "USAR", "name": "USA Rare Earth, Inc.", "published_at": "2026-08-31T15:53:28+09:00", "url": "r/usa-rare-earth-inc-usar-20260831/"}, {"slug": "coherent-corp-cohr-20260831", "title": "Coherent Corp. (COHR) 종목 리포트 · 2026-08-31", "summary": "신규 매수는 보류하고, 287.16달러를 일봉 종가로 회복한 뒤에만 소액으로 롱 전환을 검토하십시오 — 다만 이 셋업의 집행 손절 273.31달러는 하루 평균 변동폭의 0.5배에 불과해 논지가 맞아도 체결될 수 있으므로, 실질적인 판단 무효화 기준은 가격이 아니라 11월 5일 실적입니다(내년 주당순이익 컨센서스가 90일 전 수준인 12.24달러 아래로 되밀리면 판단을 접습니다).", "kind": "ticker", "symbol": "COHR", "name": "Coherent Corp.", "published_at": "2026-08-31T09:31:45+09:00", "url": "r/coherent-corp-cohr-20260831/"}, {"slug": "ishares-phlx-sox-semiconductor-soxx-20260831", "title": "iShares PHLX SOX Semiconductor (SOXX) 종목 리포트 · 2026-08-31", "summary": "SOXX는 신규 롱 관망입니다 — 522.80을 일봉 종가로 회복하기 전에는 진입하지 않고, 회복 매수로 들어간 경우 집행 손절은 512.54이며, 박스 하단 457.92를 종가로 내준 뒤 3거래일 안에 회복하지 못하고 반등이 그 가격에서 막히면 이 시나리오 자체를 폐기합니다.", "kind": "ticker", "symbol": "SOXX", "name": "iShares PHLX SOX Semiconductor", "published_at": "2026-08-31T08:41:49+09:00", "url": "r/ishares-phlx-sox-semiconductor-soxx-20260831/"}, {"slug": "netflix-inc-nflx-20260831", "title": "Netflix, Inc. (NFLX) 종목 리포트 · 2026-08-31", "summary": "현재가 81.73달러에서 신규 추격은 하지 않고, 84.72달러를 일봉 종가로 회복하는 것을 확인한 뒤 돌파 매수(진입 84.72 / 집행 손절 83.58 / 1차 목표 86.51 / 2차 목표 90.89, 1차까지 손익비 1.57, 전 구간 3.50)로 들어가며, 일봉 종가가 84.72 아래로 밀린 뒤 3거래일 안에 되찾지 못하고 반등이 그 가격에서 막히면 이 셋업을 폐기하고, 박스 하단 70.32달러가 같은 방식으로 무너지면 상승 시나리오 전체를 폐기합니다.", "kind": "ticker", "symbol": "NFLX", "name": "Netflix, Inc.", "published_at": "2026-08-31T08:41:34+09:00", "url": "r/netflix-inc-nflx-20260831/"}, {"slug": "market-20260830-20260830", "title": "시황 리포트 · 2026-08-30", "summary": "지수는 아직 20일·50일 이동평균 위에 있고 투자심리는 탐욕 구간(S&P 500 71.3 · 나스닥 73.0)이지만, 주도권이 에너지·헬스케어·소재로 옮겨가고 경기소비재·산업재·유틸리티는 20일·50일선을 모두 내준 방어적 순환이 진행 중이므로 신규 위험자산 확대는 보류하며, S&P 500 일봉 종가가 20일 이동평균 7,667.63 아래로 내려간 뒤 이어지는 반등에서 이 선을 종가로 되찾지 못하면 강세 판단을 폐기합니다.", "kind": "market", "symbol": null, "name": null, "published_at": "2026-08-30T09:29:59+09:00", "url": "r/market-20260830-20260830/"}, {"slug": "kospi-rotation-20260826", "title": "시황 리포트 · 2026-08-26", "summary": "지금 KOSPI는 업종이 차례로 돌아가는 순환매가 아니라 지수가 오르면 반도체, 빠지면 화장품·은행·필수소비재로 되돌아오는 두 자리 왕복 국면이며, 이 판단은 지수가 7,135를 일봉 종가로 회복하면 폐기(저베타 우위가 깨지고 실제 확산 국면), 6,398을 종가로 내준 뒤 되돌리지 못하고 그 가격이 저항으로 바뀌면 왕복이 아니라 전면 하락으로 전환된 것으로 봅니다.", "kind": "market", "symbol": null, "name": null, "published_at": "2026-08-26T00:09:52+09:00", "url": "r/kospi-rotation-20260826/"}, {"slug": "usa-rare-earth-inc-usar-20260824", "title": "USA Rare Earth, Inc. (USAR) 종목 리포트 · 2026-08-24", "summary": "USAR는 현재가 17.83달러에서 신규 매수를 보류하고 관망하며, 18.82달러를 일봉 종가로 회복한 뒤 되돌림에서 지켜지는 것을 확인한 다음에만 롱 전환을 검토합니다 — 진입 시 집행 손절은 18.10달러(진입 기준선에서 하루 평균 변동폭의 0.5배 아래)이고, 구조 자체의 폐기선은 12.63달러 이탈 후 3거래일 내 종가 회복 실패 + 반등에서 저항 확인 시입니다.", "kind": "ticker", "symbol": "USAR", "name": "USA Rare Earth, Inc.", "published_at": "2026-08-24T23:37:03+09:00", "url": "r/usa-rare-earth-inc-usar-20260824/"}, {"slug": "doosan-enerbility-034020-ks-20260824", "title": "Doosan Enerbility (034020.KS) 종목 리포트 · 2026-08-24", "summary": "두산에너빌리티는 64,200원~129,100원 박스 안에서 매집 우위로 버티는 국면이므로 신규 롱은 75,363원 일봉 종가 회복 확인 뒤에만 검토하시고, 72,450원을 일봉 종가로 내준 뒤 3거래일 내 회복하지 못하고 반등이 그 가격에서 막히면 매수 논리를 폐기하십시오(집행 손절은 회복 매수 71,309원 / 지지 확인 매수 69,254원으로 별도 작동합니다).", "kind": "ticker", "symbol": "034020.KS", "name": "Doosan Enerbility", "published_at": "2026-08-24T23:36:51+09:00", "url": "r/doosan-enerbility-034020-ks-20260824/"}, {"slug": "ls-electric-010120-ks-20260824", "title": "LS ELECTRIC (010120.KS) 종목 리포트 · 2026-08-24", "summary": "평단 233,000원 대비 -20.47%(현재가 185,300원)이나 지금 자리는 주가가 갇힌 박스의 아래쪽(167,367원)에서 1.18 ATR밖에 안 남은 지점이라 즉시 전량 손절은 권하지 않으며, 일봉 종가가 165,400원(7/30 반등 신호가 나온 저점) 또는 167,367원(박스 아래쪽)을 깨면 그때 전량 손절하고, 그 전에는 194,700 / 201,551 / 213,844원 반등 구간에서 나눠 줄이는 것이 실행 계획입니다.", "kind": "ticker", "symbol": "010120.KS", "name": "LS ELECTRIC", "published_at": "2026-08-24T09:39:10+09:00", "url": "r/ls-electric-010120-ks-20260824/"}, {"slug": "invesco-qqq-trust-series-1-qqq-20260824", "title": "Invesco QQQ Trust, Series 1 (QQQ) 종목 리포트 · 2026-08-24", "summary": "QQQ는 682.94~729.84 박스에 갇힌 중립 구간에 있어 현재가 713.44에서의 신규 매수는 근거가 없으며, 701.70까지 눌릴 때 사거나(손익비 1:3.5) 729.46을 일봉 종가로 넘는 것을 확인한 뒤 따라 붙는 것이 유일한 매수 전략입니다.", "kind": "ticker", "symbol": "QQQ", "name": "Invesco QQQ Trust, Series 1", "published_at": "2026-08-24T08:33:01+09:00", "url": "r/invesco-qqq-trust-series-1-qqq-20260824/"}, {"slug": "sk-hynix-000660-ks-20260822", "title": "SK hynix (000660.KS) 종목 리포트 · 2026-08-22", "summary": "SK하이닉스는 하락·중립 국면이며 유일하게 산출된 셋업(reclaim_long)의 손익비가 0.93으로 1 미만이라 신규 진입 보류·관망이 타당하고, 1,820,709원 종가 회복을 확인한 뒤에야 롱 전환을 검토합니다.", "kind": "ticker", "symbol": "000660.KS", "name": "SK hynix", "published_at": "2026-08-22T14:06:51+09:00", "url": "r/sk-hynix-000660-ks-20260822/"}, {"slug": "setup-check", "title": "발행 파이프라인 점검", "summary": "발행 경로(PDF 생성 → 웹 페이지 → GitHub push → Telegram)가 정상 동작하는지 확인하기 위한 점검용 문서이며, 투자 판단 내용은 포함하지 않습니다.", "kind": "report", "symbol": null, "published_at": "2026-08-22T13:51:48+09:00", "url": "r/setup-check/"}];
 const list=document.getElementById('list');
 const q=document.getElementById('q');
 let kind='all';
